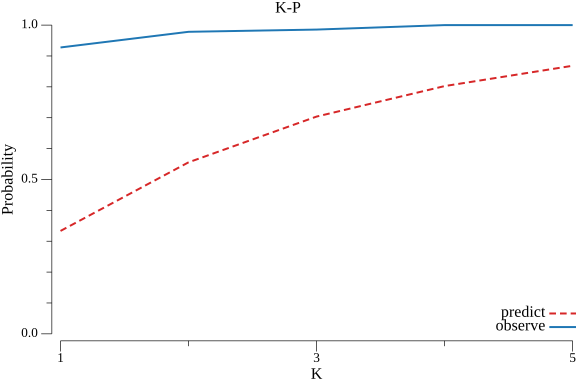
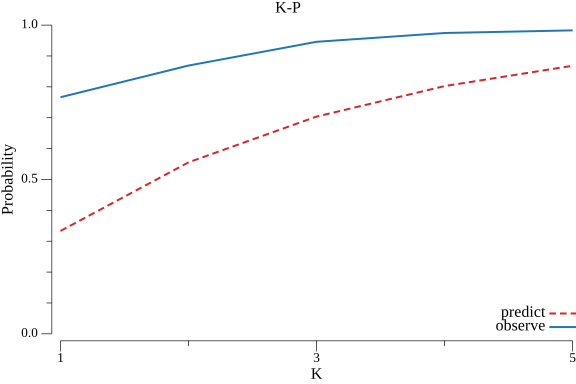
runnable version

diff --git a/src/kvsrv1/pbs_demo.go b/src/kvsrv1/pbs_demo.go
@@ -25,6 +25,8 @@ type PBSDemoStats struct {
 	WriteOtherErr   int64
 	ReadOK          int64
 	ReadErr         int64
+	ProbeReadOK     int64
+	ProbeReadErr    int64
 	RefreshOK       int64
 	RefreshErr      int64
 }
@@ -43,6 +45,7 @@ type PBSDemoOptions struct {
 	SleepBetweenOps    time.Duration
 	NumReaders         int
 	ReadSleep          time.Duration
+	ProbeReadsPerWrite int
 	NumNodes           int
 	PlotConfig         kvsrv_eval.SimulationConfig
 }
@@ -56,6 +59,7 @@ func DefaultPBSDemoOptions() PBSDemoOptions {
 		SleepBetweenOps:    2 * time.Millisecond,
 		NumReaders:         3,
 		ReadSleep:          1 * time.Millisecond,
+		ProbeReadsPerWrite: 2,
 		NumNodes:           4,
 		PlotConfig: kvsrv_eval.SimulationConfig{
 			NumReplicas: 3,
@@ -84,6 +88,9 @@ func RunPBSDemo(opts PBSDemoOptions) (PBSDemoResult, error) {
 	}
 	if opts.NumReaders <= 0 {
 		return PBSDemoResult{}, fmt.Errorf("NumReaders must be > 0")
+	}
+	if opts.ProbeReadsPerWrite < 0 {
+		return PBSDemoResult{}, fmt.Errorf("ProbeReadsPerWrite must be >= 0")
 	}
 	if opts.NumNodes <= 0 {
 		return PBSDemoResult{}, fmt.Errorf("NumNodes must be > 0")
@@ -118,6 +125,8 @@ func RunPBSDemo(opts PBSDemoOptions) (PBSDemoResult, error) {
 	var writeOtherErr atomic.Int64
 	var readOK atomic.Int64
 	var readErr atomic.Int64
+	var probeReadOK atomic.Int64
+	var probeReadErr atomic.Int64
 	var refreshOK atomic.Int64
 	var refreshErr atomic.Int64
 
@@ -178,6 +187,14 @@ func RunPBSDemo(opts PBSDemoOptions) (PBSDemoResult, error) {
 					case rpc.OK:
 						writeOK.Add(1)
 						writerCtx = committedCtx
+						for probe := 0; probe < opts.ProbeReadsPerWrite; probe++ {
+							if err := demoGet(coordinator, opts.Key); err != nil {
+								probeReadErr.Add(1)
+								reportFatalErr(fmt.Errorf("writer %d iteration %d probe read %d: %w", writerID, i, probe, err))
+								return
+							}
+							probeReadOK.Add(1)
+						}
 						if opts.SleepBetweenOps > 0 {
 							time.Sleep(opts.SleepBetweenOps)
 						}
@@ -230,6 +247,8 @@ func RunPBSDemo(opts PBSDemoOptions) (PBSDemoResult, error) {
 		WriteOtherErr:   writeOtherErr.Load(),
 		ReadOK:          readOK.Load(),
 		ReadErr:         readErr.Load(),
+		ProbeReadOK:     probeReadOK.Load(),
+		ProbeReadErr:    probeReadErr.Load(),
 		RefreshOK:       refreshOK.Load(),
 		RefreshErr:      refreshErr.Load(),
 	}
@@ -265,6 +284,8 @@ func writePBSDemoStatsCSV(path string, stats PBSDemoStats) error {
 		{"write_other_err", strconv.FormatInt(stats.WriteOtherErr, 10)},
 		{"read_ok", strconv.FormatInt(stats.ReadOK, 10)},
 		{"read_err", strconv.FormatInt(stats.ReadErr, 10)},
+		{"probe_read_ok", strconv.FormatInt(stats.ProbeReadOK, 10)},
+		{"probe_read_err", strconv.FormatInt(stats.ProbeReadErr, 10)},
 		{"refresh_ok", strconv.FormatInt(stats.RefreshOK, 10)},
 		{"refresh_err", strconv.FormatInt(stats.RefreshErr, 10)},
 	}

diff --git a/src/main/kvsrv1pbsplot.go b/src/main/kvsrv1pbsplot.go
@@ -23,6 +23,7 @@ func main() {
 	sleepBetweenOps := flag.Duration("sleep", opts.SleepBetweenOps, "delay between operations")
 	numReaders := flag.Int("readers", opts.NumReaders, "number of reader goroutines")
 	readSleep := flag.Duration("read-sleep", opts.ReadSleep, "delay between reader get operations")
+	probeReads := flag.Int("probe-reads", opts.ProbeReadsPerWrite, "number of immediate probe reads after each successful write")
 	delta := flag.Duration("delta", opts.PlotConfig.Delta, "max delta value for the delta-P sweep")
 	maxK := flag.Int("k", opts.PlotConfig.K, "max K value for the K-P sweep")
 	simIterations := flag.Int("sim-iters", opts.PlotConfig.Iterations, "number of Monte Carlo iterations for delta-P prediction")
@@ -39,6 +40,7 @@ func main() {
 	opts.SleepBetweenOps = *sleepBetweenOps
 	opts.NumReaders = *numReaders
 	opts.ReadSleep = *readSleep
+	opts.ProbeReadsPerWrite = *probeReads
 	opts.PlotConfig.Delta = *delta
 	opts.PlotConfig.K = *maxK
 	opts.PlotConfig.Iterations = *simIterations
@@ -56,12 +58,14 @@ func main() {
 	fmt.Printf("generated Delta-P CSV: %s\n", result.Plots.DeltaCSVPath)
 	fmt.Printf("generated K-P CSV: %s\n", result.Plots.KPCSVPath)
 	fmt.Printf("generated demo stats CSV: %s\n", result.StatsCSVPath)
-	fmt.Printf("stats: write_ok=%d write_err_version=%d write_other_err=%d read_ok=%d read_err=%d refresh_ok=%d refresh_err=%d\n",
+	fmt.Printf("stats: write_ok=%d write_err_version=%d write_other_err=%d read_ok=%d read_err=%d probe_read_ok=%d probe_read_err=%d refresh_ok=%d refresh_err=%d\n",
 		result.Stats.WriteOK,
 		result.Stats.WriteErrVersion,
 		result.Stats.WriteOtherErr,
 		result.Stats.ReadOK,
 		result.Stats.ReadErr,
+		result.Stats.ProbeReadOK,
+		result.Stats.ProbeReadErr,
 		result.Stats.RefreshOK,
 		result.Stats.RefreshErr,
 	)